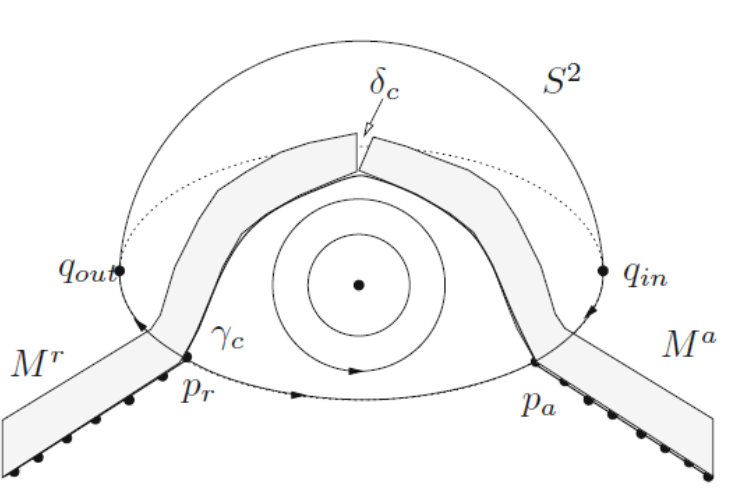
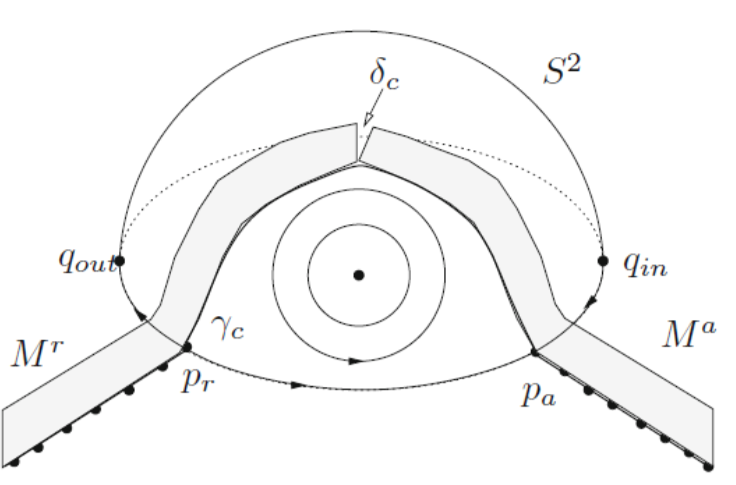
Pres

diff --git a/pres-dec-14.tex b/pres-dec-14.tex
@@ -324,7 +324,7 @@ Singularities at $x=0,x=2$.
      \column{0.5\textwidth}
     \begin{figure}
         \centering
-        \includegraphics[height=5cm,width=6cm]{Charts.png}
+	\includegraphics[height=5cm,width=6cm]{Images/canard-ball}
         \caption{Sketch of the coordinate charts (Kuehn, Multiple Time Scale Dynamics)}
     \end{figure}    \column{0.5\textwidth}
         \begin{itemize}
@@ -345,9 +345,8 @@ Singularities at $x=0,x=2$.
 \column{0.35\textwidth}
 \begin{figure}
     \centering
-    \includegraphics[height=4cm,width=6cm]{Dynamics_in_K2.png}
-    \caption{\textbf{Needs changing - unsure what to?} (Kuehn, Multiple Time Scale Dynamics)}
-
+	\includegraphics[height=4cm,width=5cm]{Images/pres-cancard}
+	\caption{Trajectories in the blow up (Kuehn, Multiple Time Scale Dynamics)}
 \end{figure}\column{0.65\textwidth}
 \begin{itemize}
 \item Transformed Van der Pol equations on $ \epsilon=1$:
@@ -390,25 +389,25 @@ Singularities at $x=0,x=2$.
 		
 	\end{figure}\column{0.5\textwidth}
 	\begin{itemize}
-		\item Transformed Van der Pol equations on $ \epsilon=1$:
-		\begin{equation*}
-		\begin{cases}
-			r_1'&=\frac{\epsilon}{2}(r_1x_1-r_1\lambda_1), \\
-		% \label{canard: r1}
-		x_1'&=-1+x_1^2-\frac{x_1\epsilon_1F}{2},\\
-		\epsilon'&=-\epsilon_1^2F,\\
-		\lambda'_1&=-\frac{\lambda_1\epsilon_1F}{2}.
-		\end{cases}
-		%     G(x_2,y_2)=(G_1(x_1,y_1),G_2(x_2,y_2))^T=(-\frac{x^2_2}{3},0)^T
-		\end{equation*}
-		%\item $ x_2' = x_2^2-y_2$
-		%\item $y_2' = -1$
-		%\item $r'_2=0$
-		%\item Matrix of high order terms.
-		%\begin{itemize}
-		%\item  $G(x_2,y_2)=(-\frac{x^2_2}{3},0)^T$
-		%\end{itemize}
-		\item Trajectories - \textbf{Scrap $ K_1 $ stuff?}
+%		\item Transformed Van der Pol equations on $ \epsilon=1$:
+%		\begin{equation*}
+%		\begin{cases}
+%			r_1'&=\frac{\epsilon}{2}(r_1x_1-r_1\lambda_1), \\
+%		% \label{canard: r1}
+%		x_1'&=-1+x_1^2-\frac{x_1\epsilon_1F}{2},\\
+%		\epsilon'&=-\epsilon_1^2F,\\
+%		\lambda'_1&=-\frac{\lambda_1\epsilon_1F}{2}.
+%		\end{cases}
+%		%     G(x_2,y_2)=(G_1(x_1,y_1),G_2(x_2,y_2))^T=(-\frac{x^2_2}{3},0)^T
+%		\end{equation*}
+%		%\item $ x_2' = x_2^2-y_2$
+%		%\item $y_2' = -1$
+%		%\item $r'_2=0$
+%		%\item Matrix of high order terms.
+%		%\begin{itemize}
+%		%\item  $G(x_2,y_2)=(-\frac{x^2_2}{3},0)^T$
+%		%\end{itemize}
+		\item Trajectories
 		\begin{itemize}
 			\item Hopf Bifurcation
 			\item Jumps
